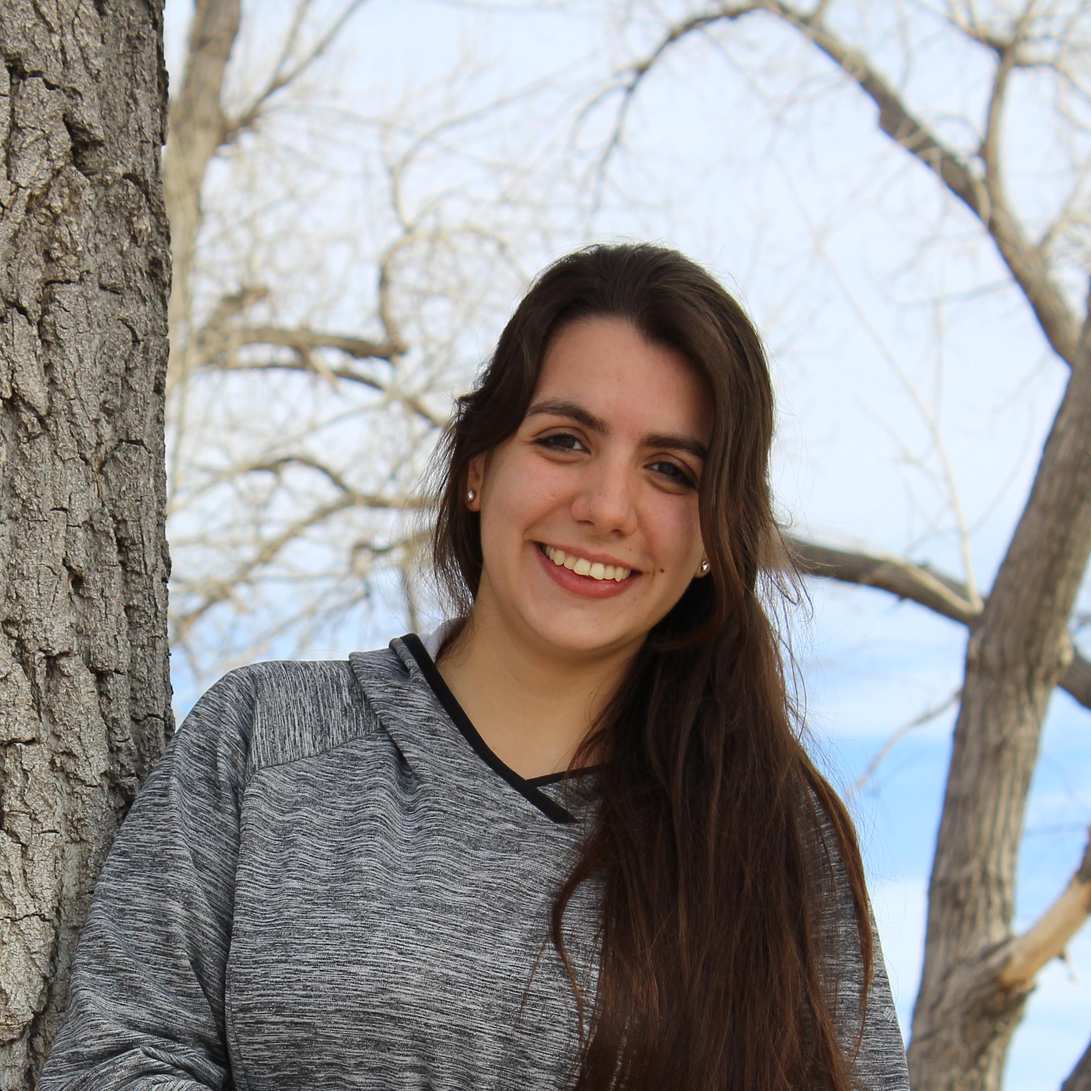
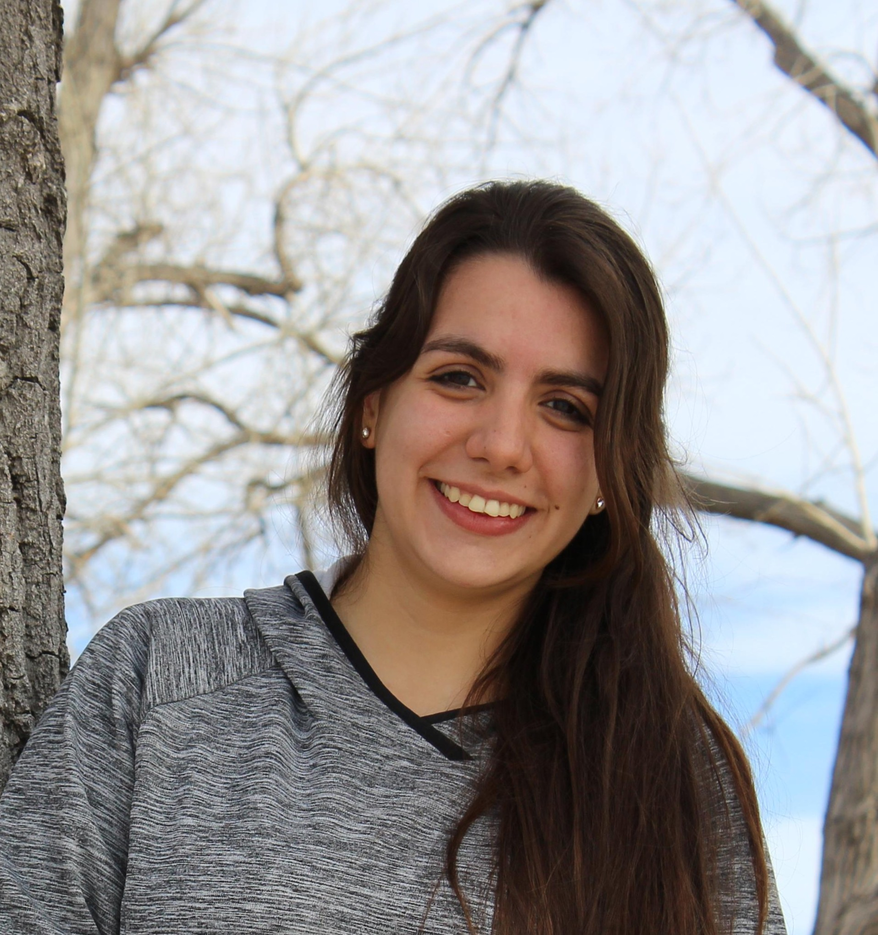
several details inprov

diff --git a/full_list.html b/full_list.html
@@ -24,7 +24,7 @@
         .nav-links a { color: var(--texto-negro); text-decoration: none; font-weight: bold; }
         .logo a { color: var(--texto-negro); text-decoration: none; font-weight: bold; }
 
-        .publications-header { padding: 60px 0 30px; border-bottom: 2px solid var(--verde-principal); margin-bottom: 40px; }
+        .publications-header { padding: 60px 0 30px; border-bottom: 2px solid var(--verde-principal); margin-bottom: 40px;font-size: 3rem; }
         .back-home { display: inline-block; margin-bottom: 20px; color: #666; text-decoration: none; font-size: 0.9rem; transition: 0.3s; }
         .back-home:hover { color: var(--verde-principal); }
 

diff --git a/projects.html b/projects.html
@@ -22,7 +22,7 @@
         .logo a { color: var(--texto-negro); text-decoration: none; font-weight: bold; }
 
         /* Estilo de Secciones de Proyecto */
-        .Research-header { padding: 60px 0 30px; border-bottom: 2px solid var(--verde-principal); margin-bottom: 40px; text-align: center; }
+        .Research-header { padding: 60px 0 30px; border-bottom: 2px solid var(--verde-principal); margin-bottom: 40px; text-align: left; font-size: 3rem;}
         .project-detail { padding: 100px 0; border-bottom: 1px solid #eee; }
         .project-detail:last-child { border-bottom: none; }
         

diff --git a/about.html b/about.html
@@ -262,7 +262,7 @@
 
             <div class="profile-section">
                 <div class="headshot-container">
-                    <img src="images/Headshot1.JPG" alt="Cecilia R. Antonelli" class="headshot-img">
+                    <img src="images/Headshot2.JPG" alt="Cecilia R. Antonelli" class="headshot-img">
                 </div>
                 <div class="profile-text">
                     <h2>Cecilia R. Antonelli</h2>
